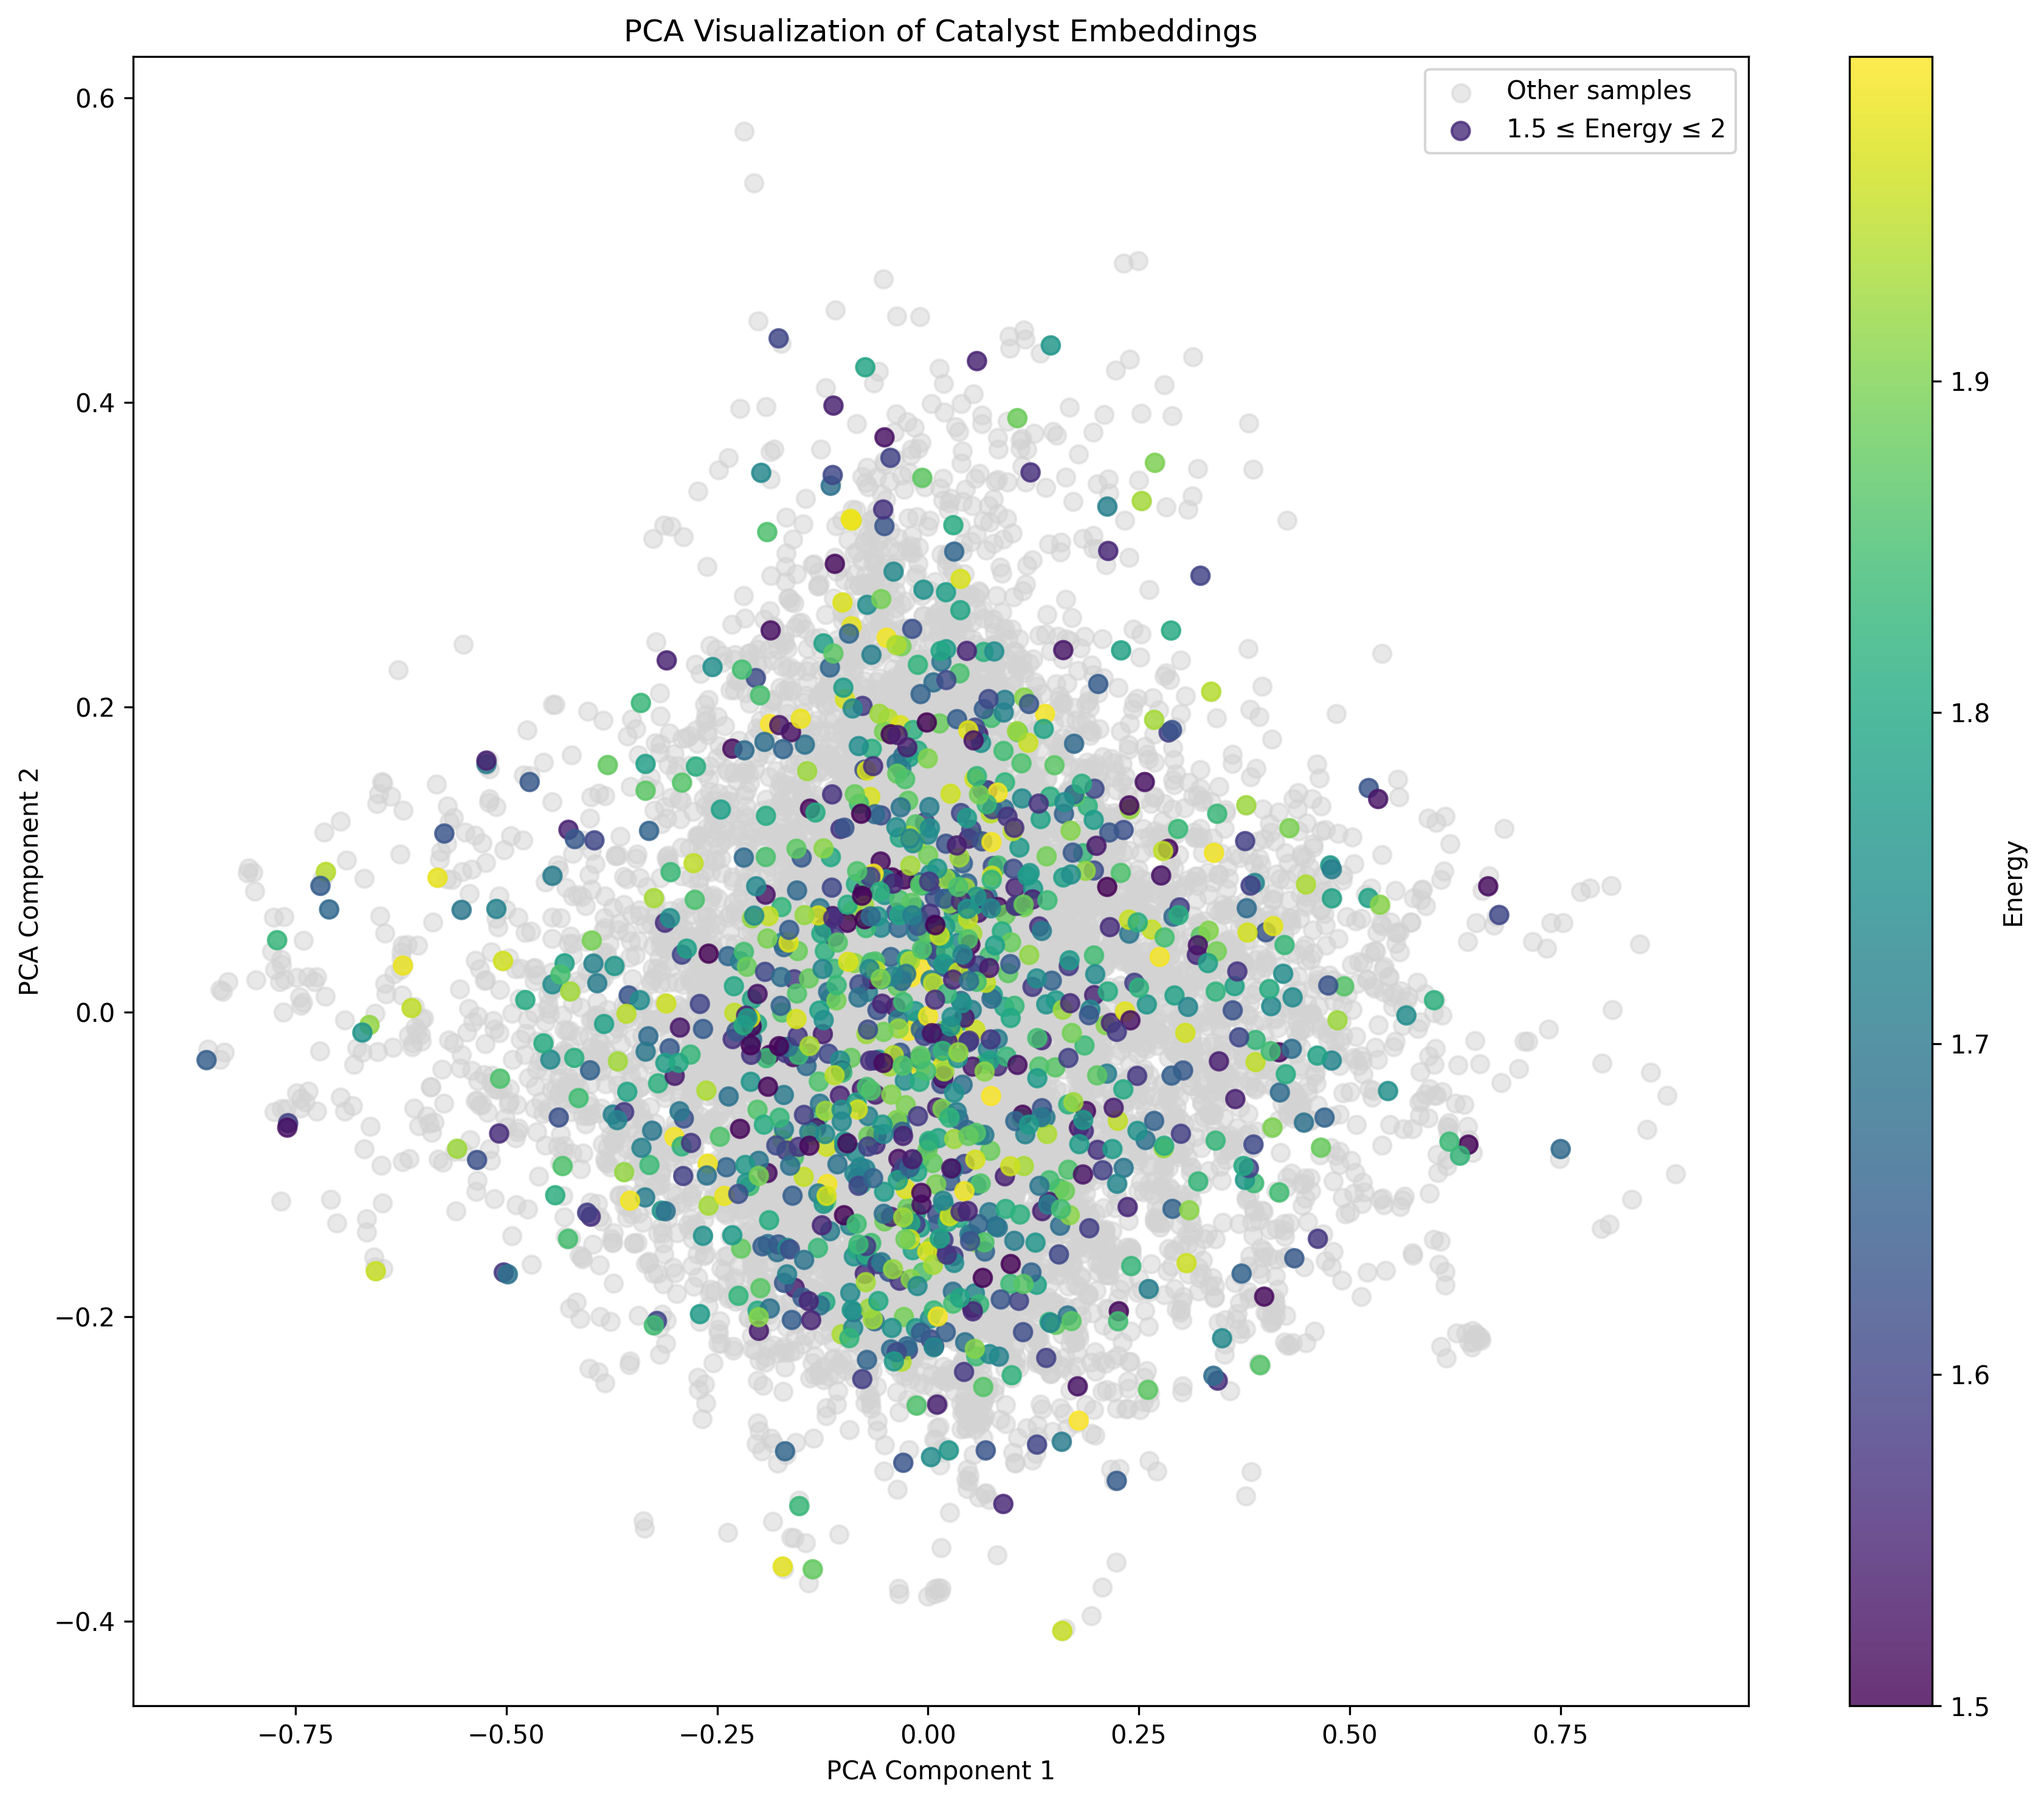
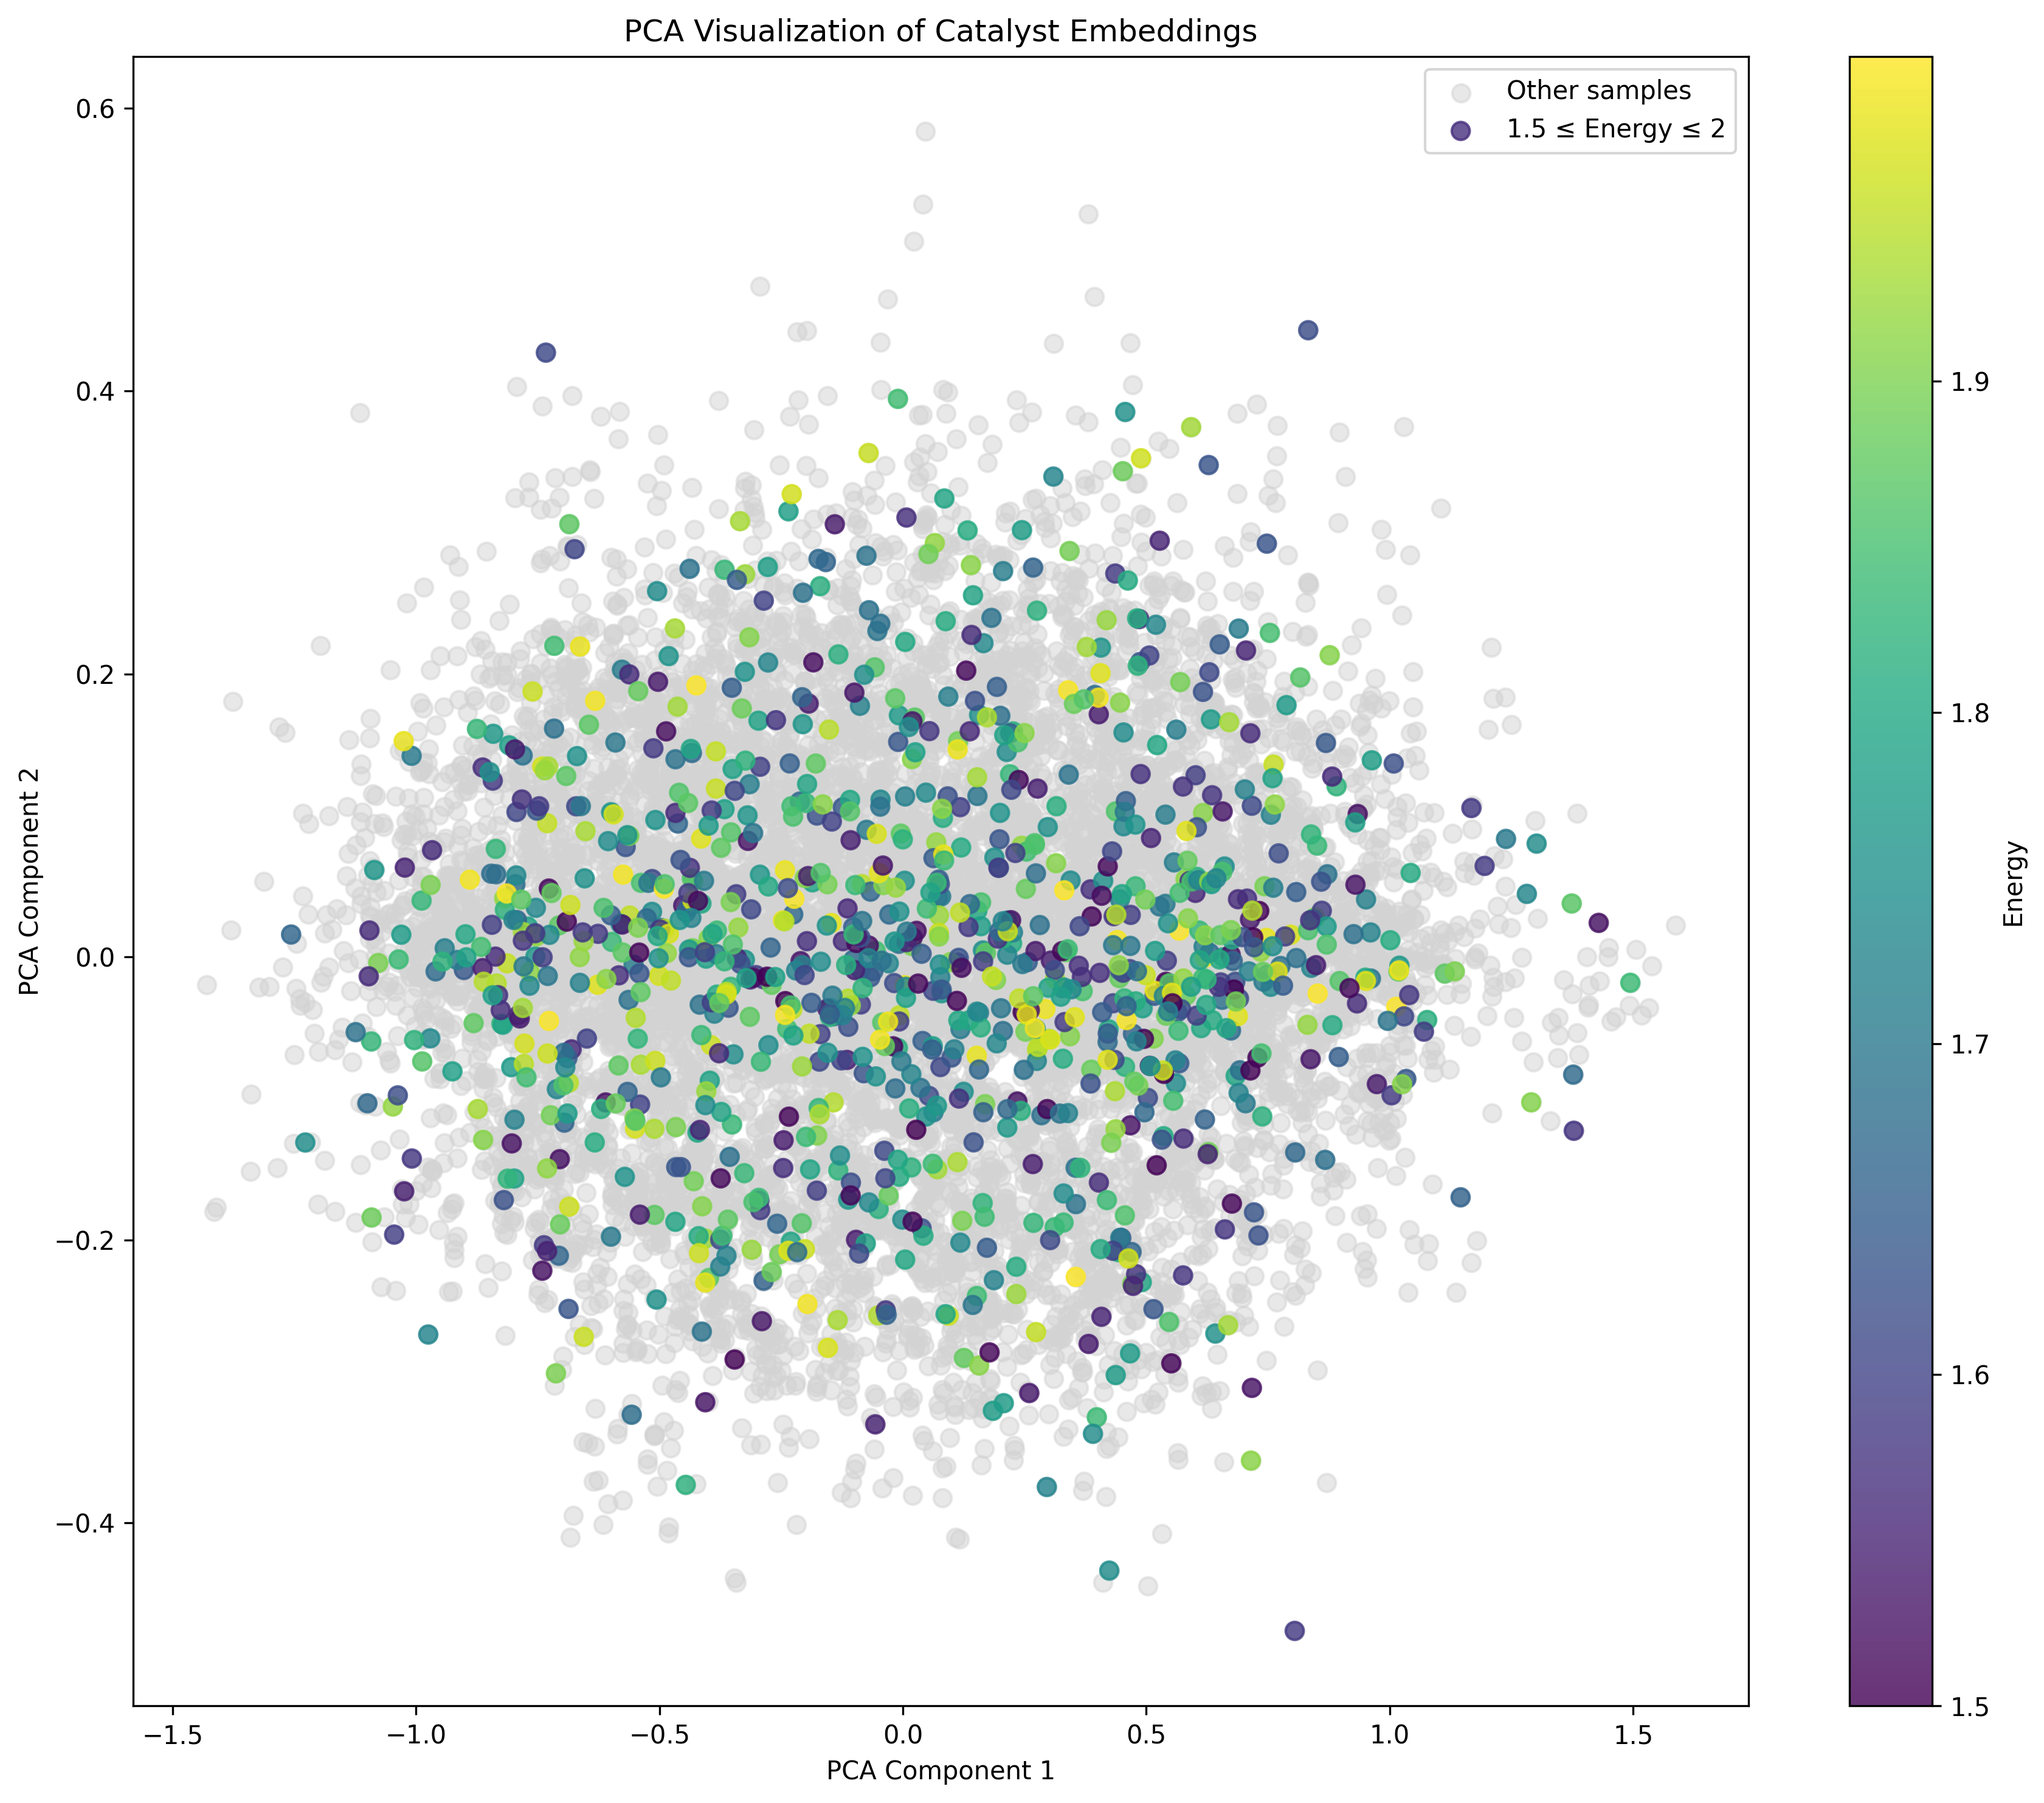
Add files via upload

diff --git a/analysis_latent.py b/analysis_latent.py
@@ -293,15 +293,18 @@ def create_tsne_comparison(latents, energy, highlight_range=False):
     return fig
 
 # Example usage with iterations
-modes = [25, 128]
-highlight_options = [True, False]
+modes = [128]
+highlight_options = [True]
 
 for mode in modes:
     # Set filename based on mode
     if mode == 25:
-        filename = 'logs_save/9066/s2ef_predictions.npz'
+        filename = 'save_logs/9066/s2ef_predictions.npz'
     elif mode == 128:
-        filename = 'logs_save/9068/s2ef_predictions.npz'
+        # 31M
+        # filename = 'save_logs/9068/s2ef_predictions.npz'
+        # 153M
+        filename = 'save_logs/2283214/s2ef_predictions.npz'
     
     # Load and reshape data
     data = np.load(filename)
@@ -313,25 +316,25 @@ for mode in modes:
         highlight_str = "highlighted" if highlight else "all"
         print(f"  Creating visualizations with highlight={highlight}")
         
-        # Create and save all visualizations
-        fig1 = visualize_embeddings(latents, energy, method='pca', highlight_range=highlight)
-        fig1.savefig(f'visuals/{mode}/catalyst_pca_{highlight_str}.png', dpi=300, bbox_inches='tight')
-        plt.close(fig1)
+        # # Create and save all visualizations
+        # fig1 = visualize_embeddings(latents, energy, method='pca', highlight_range=highlight)
+        # fig1.savefig(f'visuals/{mode}/catalyst_pca_{highlight_str}.png', dpi=300, bbox_inches='tight')
+        # plt.close(fig1)
         
-        fig2 = visualize_embeddings(latents, energy, method='tsne', highlight_range=highlight)
-        fig2.savefig(f'visuals/{mode}/catalyst_tsne_{highlight_str}.png', dpi=300, bbox_inches='tight')
-        plt.close(fig2)
+        # fig2 = visualize_embeddings(latents, energy, method='tsne', highlight_range=highlight)
+        # fig2.savefig(f'visuals/{mode}/catalyst_tsne_{highlight_str}.png', dpi=300, bbox_inches='tight')
+        # plt.close(fig2)
         
-        fig3 = create_multiple_visualizations(latents, energy, highlight_range=highlight)
-        fig3.savefig(f'visuals/{mode}/catalyst_multiple_{highlight_str}.png', dpi=300, bbox_inches='tight')
-        plt.close(fig3)
+        # fig3 = create_multiple_visualizations(latents, energy, highlight_range=highlight)
+        # fig3.savefig(f'visuals/{mode}/catalyst_multiple_{highlight_str}.png', dpi=300, bbox_inches='tight')
+        # plt.close(fig3)
         
         # Create and save t-SNE comparison
         fig5 = create_tsne_comparison(latents, energy, highlight_range=highlight)
         fig5.savefig(f'visuals/{mode}/catalyst_tsne_comparison_{highlight_str}.png', dpi=300, bbox_inches='tight')
         plt.close(fig5)
     
-    # Create cluster analysis (only once per mode as it doesn't use highlighting)
-    fig4 = analyze_embedding_clusters(latents, energy)
-    fig4.savefig(f'visuals/{mode}/catalyst_cluster_analysis.png', dpi=300, bbox_inches='tight')
-    plt.close(fig4)
+    # # Create cluster analysis (only once per mode as it doesn't use highlighting)
+    # fig4 = analyze_embedding_clusters(latents, energy)
+    # fig4.savefig(f'visuals/{mode}/catalyst_cluster_analysis.png', dpi=300, bbox_inches='tight')
+    # plt.close(fig4)

diff --git a/oc20/trainer/forces_trainer_v2.py b/oc20/trainer/forces_trainer_v2.py
@@ -219,7 +219,7 @@ class ForcesTrainerV2(BaseTrainerV2):
                 )
                 
                 predictions["latents"].extend(
-                    out["latents"].tolist()
+                    out["latents"].cpu().detach().numpy()
                 )
                 
                 batch_natoms = torch.cat(

diff --git a/nets/equiformer_v2/equiformer_v2_oc20.py b/nets/equiformer_v2/equiformer_v2_oc20.py
@@ -450,7 +450,7 @@ class EquiformerV2_OC20(BaseModel):
         
         # Final layer norm
         x.embedding = self.norm(x.embedding)
-        latent_rep = x.embedding.mean(dim=1)
+        latent_rep = x.embedding
 
         ###############################################################
         # Energy estimation
